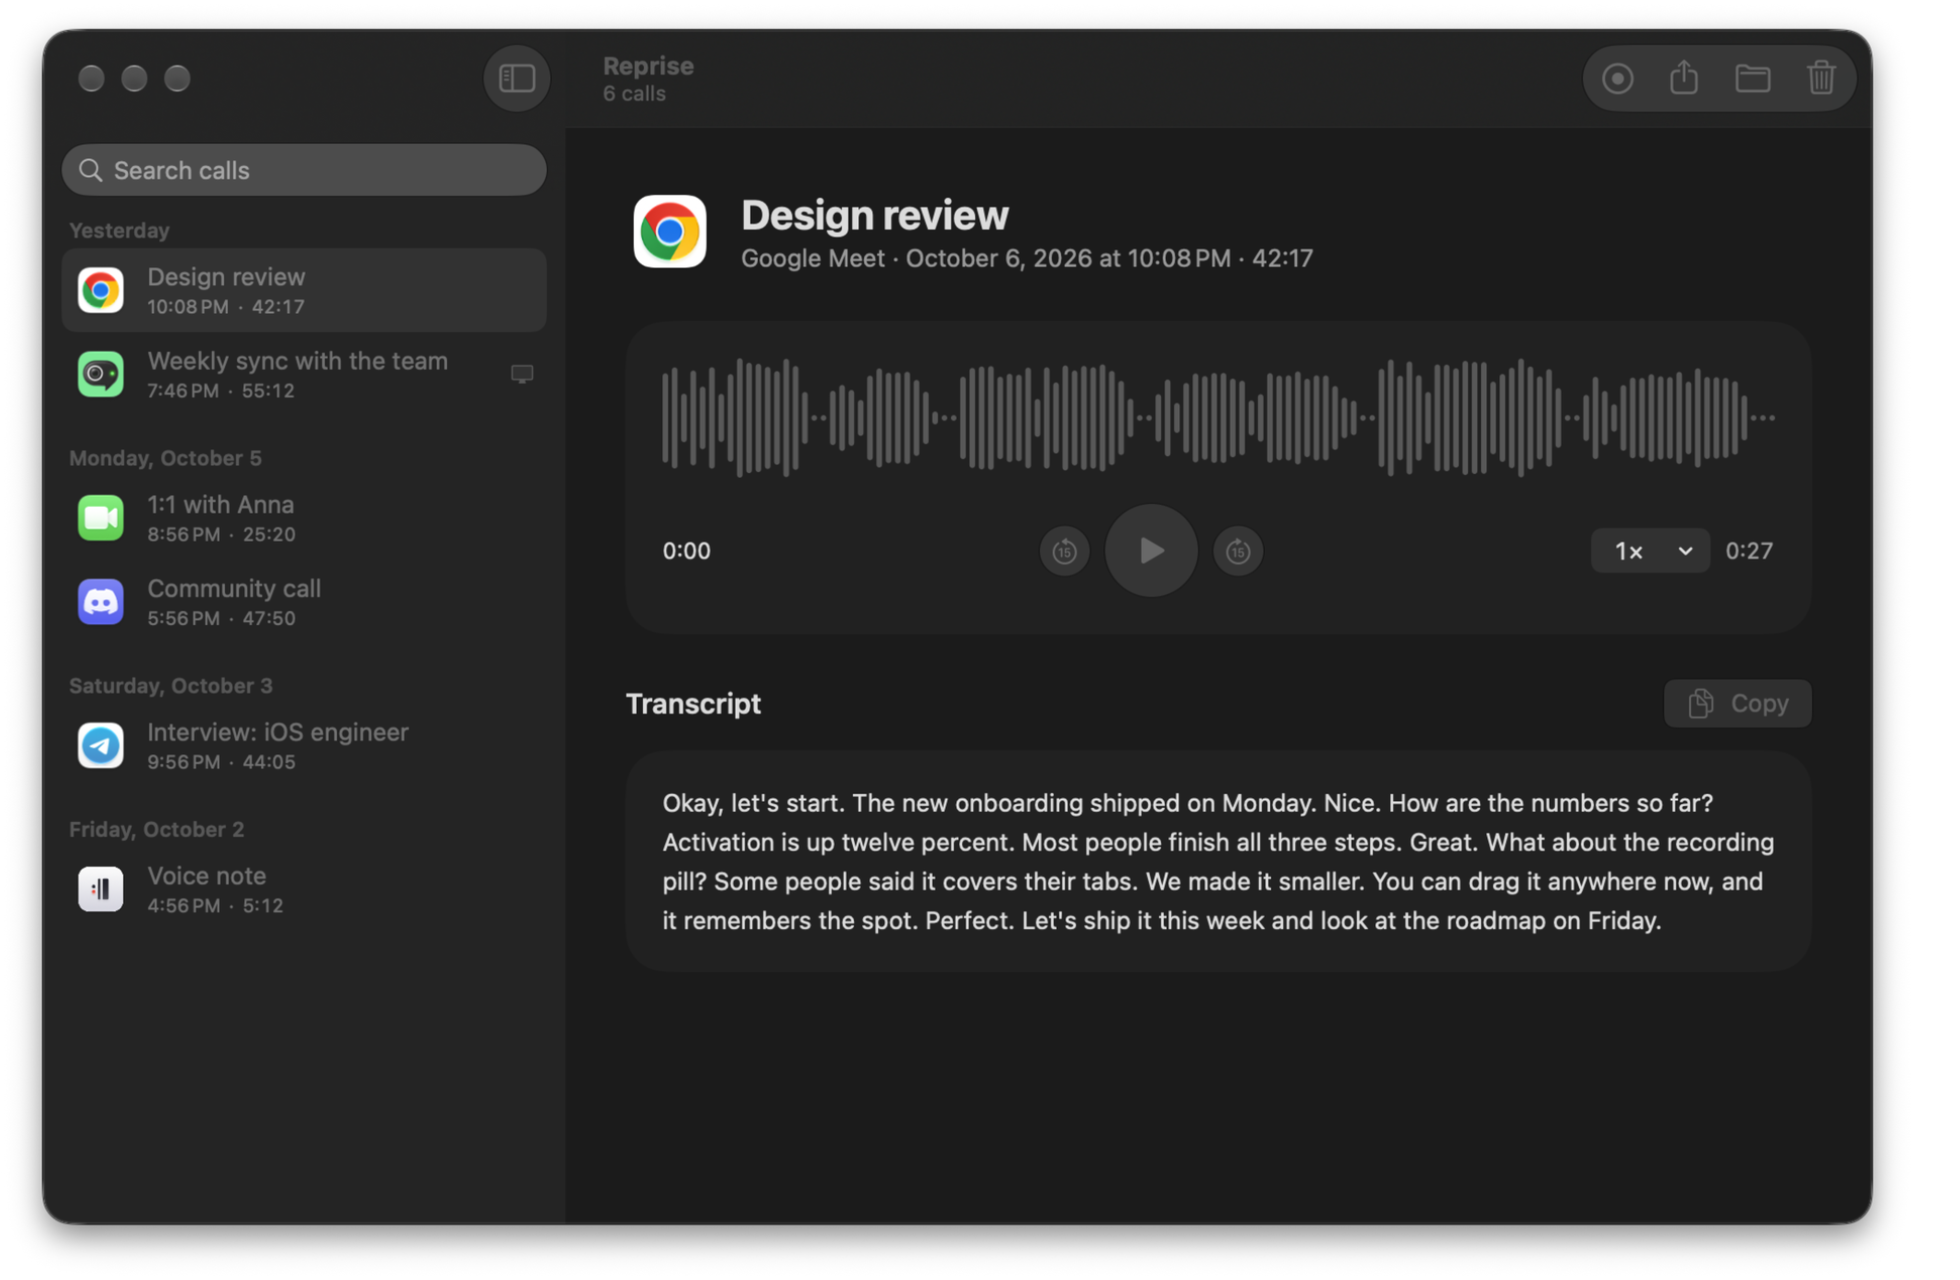
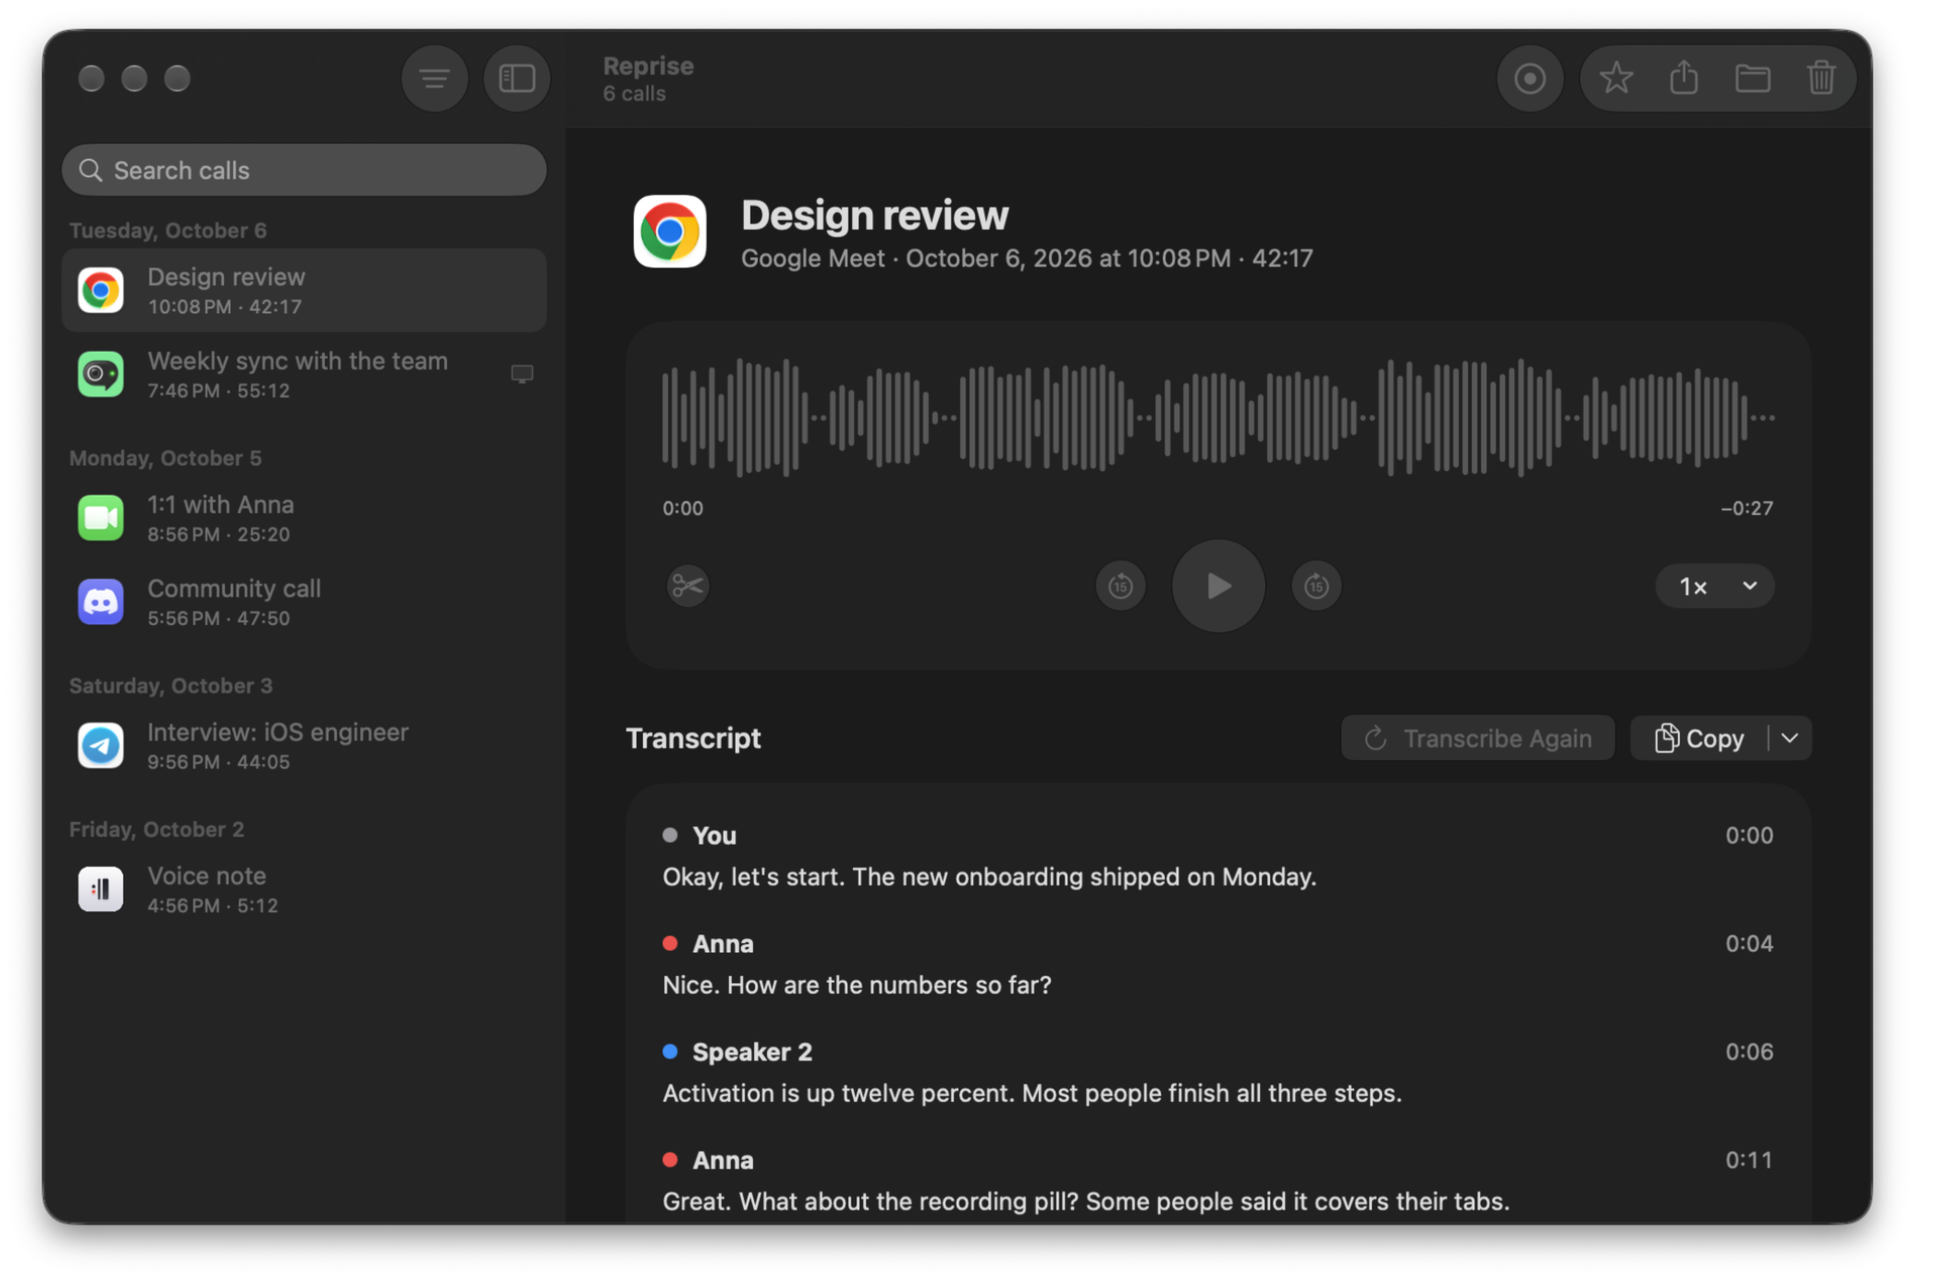
docs(readme): show a transcript split by voice
The README described telling voices apart and naming them, but no
picture showed it: the demo call's transcript was one plain paragraph,
so the library screenshot gave no sign of who said what.

- The demo call now has a transcript in three voices: You, Anna (a
  voice already named) and Speaker 2 (one not named yet).
- Re-shot the library in both appearances with it.
- Added a close-up of that transcript under the paragraph on voices.

Testing:
- Ran the studio on a copy of build/demo/lib and checked the library
  and the close-up in light and dark.
- Not tested: how GitHub lays out the new picture.

diff --git a/README.md b/README.md
@@ -110,6 +110,11 @@ If you save each side, Reprise transcribes each one on its own, so the transcrip
 
 A service that tells voices apart (`diarized_json`, such as Refrain with its speaker model downloaded, OpenAI's `gpt-4o-transcribe-diarize` or a self-hosted server) also splits the others into Speaker 1, Speaker 2 and so on, and labels a call recorded without its sides. It labels the voices anew in every request, so Reprise sends the call whole: to a server on this Mac or your local network at any length, to a cloud service only up to 10 minutes. Click a voice's name to name it, after someone invited to the call or as you like; the transcript, Copy and search use the name.
 
+<picture>
+  <source media="(prefers-color-scheme: dark)" srcset="docs/media/transcript-dark.png">
+  <img src="docs/media/transcript-light.png" width="620" alt="A transcript split by voice: You, Anna, Speaker 2, each with its own color and the time it begins">
+</picture>
+
 ## Files
 
 Each call is a folder in `~/Movies/Reprise`:
